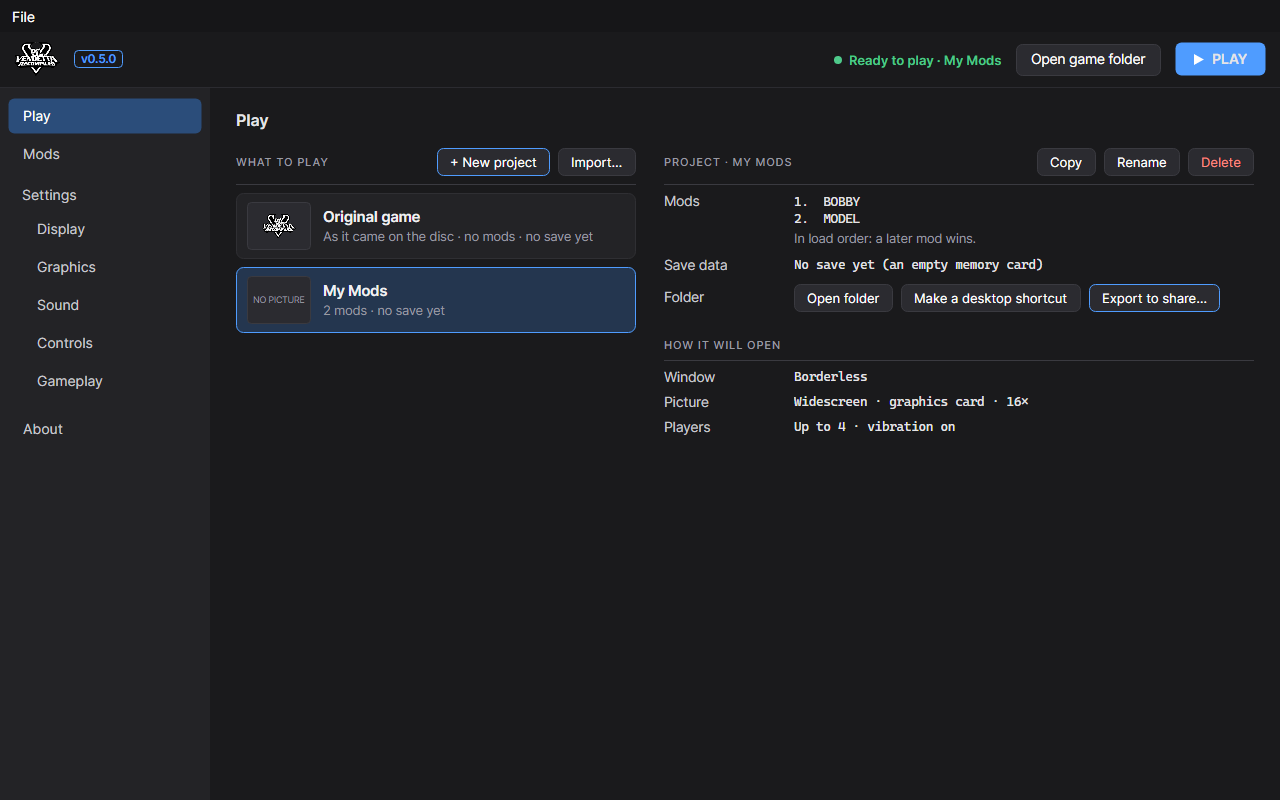
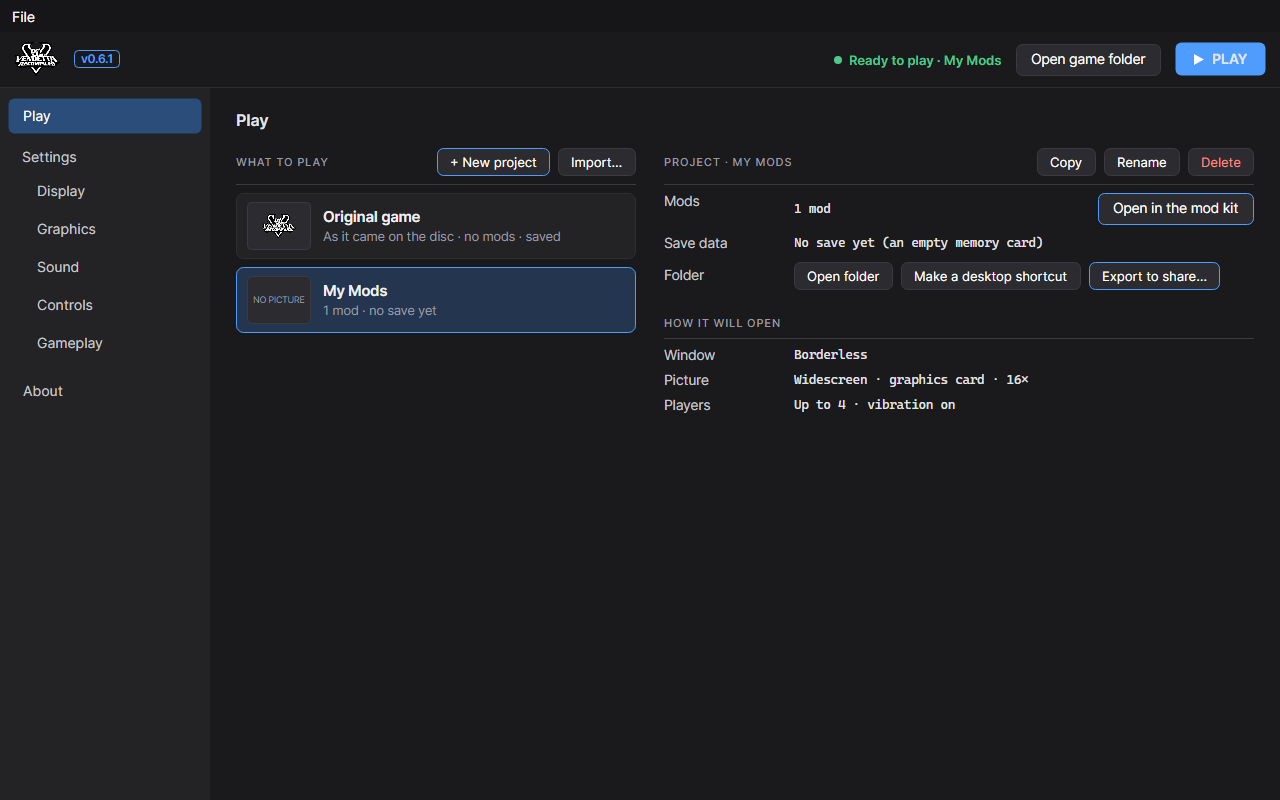
README: what's new in the game, the mod kit's projects and themes, new pictures
- New in the game: S-WORD and DABO, the six-sided ring, the cage match and how to play it, Choose Match's options, the camera row.
- Controls moved up, with the cage's climb. Install: a note on Intel graphics built into the processor and old drivers.
- The settings program without its Mods page; mods are managed in the mod kit (PROJECTS and BUILD, a project's Roster, Stages, Themes and Installed, Install a mod).
- Menus, videos and music themes.
- New pictures of the game, the kit and the settings program; the Mods page's and the old Add to project windows' pictures removed.

diff --git a/README.md b/README.md
@@ -24,13 +24,20 @@ Vendetta (PlayStation 2, USA, **SLUS-20639**) as an `.iso` or `.chd`, and everyt
 - [Features](#features)
 - [Screenshots](#screenshots)
 - [Install](#install)
+- [Controls](#controls)
+- [New in the game](#new-in-the-game)
+  - [S-WORD and DABO](#s-word-and-dabo)
+  - [The six-sided ring](#the-six-sided-ring)
+  - [Cage match](#cage-match)
+  - [Match options](#match-options)
 - [Def Jam Vendetta Recompiled Settings](#def-jam-vendetta-recompiled-settings)
 - [Mods](#mods)
   - [The mod kit](#the-mod-kit)
+  - [Projects](#projects)
   - [Wrestlers](#wrestlers)
   - [Arenas](#arenas)
+  - [Menus, videos and music](#menus-videos-and-music)
   - [Blender plugin](#blender-plugin)
-- [Controls](#controls)
 - [Good to know](#good-to-know)
 - [Thanks to](#thanks-to)
 - [Licence](#licence)
@@ -43,6 +50,15 @@ Vendetta (PlayStation 2, USA, **SLUS-20639**) as an `.iso` or `.chd`, and everyt
 - Sharp 2D: the HUD, text and menus as sharp as the 3D
 - High Poly in every match (the PS2 used lower detail models with 3 or 4 fighters)
 - Vulkan on your graphics card, in a window or borderless
+
+**New in the game**
+- The Japanese version's content, in new slots: its two wrestlers, S-WORD and DABO, on the end of Choose Fighter and
+  unlocked, with their own moves, intros, taunts, victories and voices, and the Japanese version's two songs
+- A six-sided ring: a new arena, THE FACE CLUB SIX SIDES, on Choose Stage and unlocked
+- Cage match, in every arena, for every battle type and on both ring shapes: climb out to win, shake a climber off,
+  throw your opponent into the cage
+- Match options in Battle: pin, submission, TKO and rope breaks each switched on or off, and Tornado Tag
+- The camera style changed in the game, from the pause menu or Options
 
 **Playing**
 - Up to 4 players on controllers, plus the keyboard as any player
@@ -59,9 +75,10 @@ Vendetta (PlayStation 2, USA, **SLUS-20639**) as an `.iso` or `.chd`, and everyt
 - New wrestlers and arenas, each with its own place on Choose Fighter and Choose Stage, or in place of the game's own
 - Wrestlers with their own models, skins, attires, movesets, animations and voice lines
 - Your own animations: moves, intros, victories and taunts, posed frame by frame, with their own sounds and cameras
-- Arenas with their own models, textures, lights, crowd sounds and fly-in camera
+- Arenas with their own models, textures, lights, crowd sounds and fly-in camera, with four or six sides
+- Themes: the menus' words, pictures, fonts and colours, the game's movies and the game's songs replaced by your own
 - Projects: each one has its own mods and its own saves, so the original game and your saves are never touched
-- The mod kit comes with the game, with a Blender plugin for models
+- Everything about mods is done in the mod kit, which comes with the game, with a Blender plugin for models
 - Share a project and its mods as one zip
 
 ## Screenshots
@@ -128,6 +145,95 @@ downloads the new version, swaps in only what changed and rebuilds the game in a
 kept. Starting the game itself checks too: when a new version is out, a popup asks **Update** or **Play**, once per new
 version. Turn both checks off under About › Check for updates automatically.
 
+**Intel graphics built into the processor** (most laptops without their own graphics card) need an up to date Intel
+driver. An old one can leave the wrestlers out of the picture or fill it with stripes. The game checks the driver each
+time it starts and tells you when it is one known to draw wrong. Windows Update often says an old driver is the newest:
+get the driver from Intel's own site for your processor. If no newer driver exists for your PC, set **Drawn by** to
+**CPU** on the Graphics page: slower, at the PS2's own resolution, but drawn right.
+
+## Controls
+
+| PS2 | In a match | Controller (Xbox layout) | Keyboard |
+| --- | --- | --- | --- |
+| D-pad / left stick | move | D-pad / left stick | Arrow keys / W A S D |
+| ✕ Cross | grapple | A | X / Space |
+| ○ Circle | run, climb | B | C / Esc |
+| □ Square | strike | X | Z / Numpad 0 |
+| △ Triangle | climb the cage | Y | V / Numpad 1 |
+| L1 / R1 | dodge / block | LB / RB | Q / E |
+| L2 / R2 | | LT / RT | Left Shift / Right Shift |
+| Right stick | taunt, Blazin' | right stick | I J K L |
+| Start / Select | pause | Menu / View | Enter / Tab |
+
+Xbox-style controllers work out of the box, with vibration, and are given to players in the order Windows lists them.
+PlayStation controllers work through Steam or DS4Windows. The keyboard plays as nobody until you pick a player on the
+Controls page.
+
+## New in the game
+
+All of this comes with the game as standard, in the original game and in every project. Nothing needs a mod.
+
+### S-WORD and DABO
+
+The Japanese version of Def Jam Vendetta has two wrestlers the USA version doesn't: **S-WORD** and **DABO**. Both are
+here as they are on the Japanese disc, in two new slots on the end of Choose Fighter, unlocked from the start. Each has
+its own model, select screen pictures, voice lines, intro, taunts and victory, and its own moves, such as S-WORD's
+Kross' Ova Zan and DABO's Hitman's License. The Japanese version's two songs come too: "Kross Ova (ZAN)" and "It's My
+Turn (Fight!!!)". In a project they can be replaced by mods like any of the game's wrestlers.
+
+<table>
+<tr>
+<td width="50%"><img src="images/game-select-sword.jpg" alt="S-WORD and DABO on the end of Choose Fighter"><br><sub>The last column of Choose Fighter: S-WORD above DABO.</sub></td>
+<td width="50%"><img src="images/game-sword-dabo.jpg" alt="S-WORD versus DABO"><br><sub>S-WORD versus DABO.</sub></td>
+</tr>
+</table>
+
+### The six-sided ring
+
+**THE FACE CLUB SIX SIDES** is a new arena on Choose Stage, after the game's 12 and unlocked from the start: The Face
+Club with a six-sided ring, its ropes and corners following the six sides. Mod arenas can have six sides too.
+
+<img src="images/game-sixsides.jpg" alt="S-WORD and DABO in the six-sided ring, with the WWF No Mercy camera" width="50%"><br><sub>S-WORD and DABO in the six-sided ring, seen with the WWF No Mercy camera.</sub>
+
+### Cage match
+
+In Battle, after picking a battle type on Choose Match, set **MATCH TYPE** to **CAGE MATCH**. A cage stands round the
+ring in every arena, on the square ring and the six-sided one, for every battle type.
+
+- **Climb:** push toward the ropes and press △. How fast you climb follows your momentum.
+- **Escape:** at the top, tap to fill the bars and go over the top. Out of the cage wins.
+- **Stop a climber:** press ✕ toward the cage below them to shake it. Enough shaking leaves them hanging, then
+  drops them back into the ring.
+- **Throw into the cage:** grab with ✕, then △ with a direction. Close to the cage it's a whip into it; farther
+  away, a run and ram. Both can be reversed.
+- **Teams:** in a tag or handicap match every member of a team has to get out. With everyone for themselves, the first
+  one out wins.
+
+The ways to win are yours to pick: **ESCAPE**, **PIN**, **SUBMISSION** and **TKO**, with **ROPE BREAKS** on or off.
+The computer climbs, shakes and throws too.
+
+<table>
+<tr>
+<td width="50%"><img src="images/game-cagematch.jpg" alt="Choose Match: CAGE MATCH and its ways to win"><br><sub>Choose Match: CAGE MATCH and its ways to win.</sub></td>
+<td width="50%"><img src="images/game-cage.jpg" alt="Briggs climbing the cage"><br><sub>Briggs climbing the cage.</sub></td>
+</tr>
+<tr>
+<td><img src="images/game-cage-top.jpg" alt="At the top of the cage: tap to get over"><br><sub>At the top: tap to get over.</sub></td>
+<td><img src="images/game-cage-six.jpg" alt="S-WORD climbing the cage on the six-sided ring"><br><sub>The cage on the six-sided ring.</sub></td>
+</tr>
+</table>
+
+### Match options
+
+Choose Match has a second step in Battle for every battle type. In a **NORMAL** match, **PIN**, **SUBMISSION**,
+**TKO** and **ROPE BREAKS** can each be switched on or off (everything on is the game as it always was). Tag Team also
+has **TORNADO TAG**: both partners in the ring at once, no tags. Story and Survival keep their own rules.
+
+<img src="images/game-matchoptions.jpg" alt="Choose Match: a normal match's ways to win" width="50%">
+
+The **camera style** has a row in the pause menu and in Options, so it can be changed during a match. It's the same
+setting as on the settings program's Gameplay page.
+
 ## Def Jam Vendetta Recompiled Settings
 
 <table>
@@ -141,51 +247,73 @@ version. Turn both checks off under About › Check for updates automatically.
 </tr>
 </table>
 
-- **Play:** what to play, the original game or one of your projects; new projects, copy, rename, delete, export one to
-  share and import one.
-- **Mods:** a project's mods in their load order, its mods folder, and the mod kit.
+The settings program sets the game up, picks what to play and holds the settings. Mods are not set up here any more:
+a project's mods are managed in the mod kit, opened from the Play page.
+
+- **Play:** what to play, the original game or one of your projects; new projects, copy, rename, delete, a desktop
+  shortcut for a project, export one to share and import one. A project shows how many mods it has and whether
+  anything needs fixing, with **Open in the mod kit**.
 - **Display:** window or borderless, which screen, VSync, and
   widescreen, 4:3 or stretched.
 - **Graphics:** graphics card or CPU, scale 1× to 16×, Sharp 2D, and FSR, smooth or blocky scaling with sharpening.
 - **Sound:** volume and the arena reverb.
 - **Controls:** up to 4 players, each player's controller and vibration, which player the keyboard plays as, and what
   every button does.
-- **Gameplay:** the camera style in matches, the match speed (Def Jam Vendetta, WWF No Mercy or your own), and Unlock
-  everything.
+- **Gameplay:** the camera style in matches (also in the game's pause menu and Options), the match speed (Def Jam
+  Vendetta, WWF No Mercy or your own), and Unlock everything.
 - **About:** the version, your game folder and save data in one click, and what it's made with.
 
 ## Mods
 
 Mods are played in **projects**. A project is a set of mods with its own saves: the original game never loads mods,
-and its saves stay as they are.
+and its saves stay as they are. Everything about mods is done in the **mod kit**, which comes with the game in the
+`Mod kit` folder: making them, installing ones someone shared, and deciding what goes where in a project. The settings
+program only picks the project and plays it.
 
-<table>
-<tr>
-<td width="50%"><img src="images/settings-play.png" alt="The Play page with a project"><br><sub>The Play page: the original game or one of your projects, each with its own saves.</sub></td>
-<td width="50%"><img src="images/settings-mods.png" alt="The Mods page"><br><sub>The Mods page: a project's mods in load order, each switched on or off.</sub></td>
-</tr>
-</table>
+<img src="images/settings-play.png" alt="The Play page with a project" width="50%"><br><sub>The Play page: the original game or one of your projects, each with its own saves.</sub>
 
-1. On the **Play** page, press **+ New project** and give it a name.
-2. On the **Mods** page, press **Open the mod kit**. It's in the `Mod kit` folder beside Def Jam Vendetta Recompiled
-   Settings.
-3. In the mod kit, make a wrestler or an arena (or import one someone shared), then press **Add to project…**: it
-   either replaces one of the game's own or gets a new place of its own.
+1. On the settings program's **Play** page, press **+ New project** and give it a name.
+2. Press **Open in the mod kit**. The kit opens on that project.
+3. In the kit, press **Install a mod…** for a zip someone shared, or make your own wrestler, arena or theme, and
+   choose where each goes.
 4. Back on the **Play** page, pick the project and press **PLAY**.
 
-When two mods change the same thing, the one lower down the Mods page wins. If a project's mods have a problem, the
-game tells you before it starts, and the Mods page says what's wrong. To share a project with its mods, use
-**Export to share…** on the Play page; the other player brings it in with **Import…**.
+If a project has a problem, the Play page says so and **Fix in the mod kit** takes you to it. To share a project with
+its mods, use **Export to share…** on the Play page; the other player brings it in with **Import…**.
 
 ### The mod kit
 
-The mod kit makes the mods. Its first start asks for the name you make mods under, and it links itself to the game it
-came with.
+The mod kit has two sides. **PROJECTS** manages a project: what is on Choose Fighter, on Choose Stage, and which
+themes it uses. **BUILD** makes the things that go into projects: wrestlers, arenas and themes. Its first start asks
+for the name you make mods under, and it links itself to the game it came with.
 
 <table>
 <tr>
 <td width="50%"><img src="images/modkit-name.png" alt="The mod kit's first start: your name"><br><sub>Your name goes into every mod you make, so two people's mods never clash.</sub></td>
 <td width="50%"><img src="images/modkit-linked.png" alt="Linked games"><br><sub>Linked games: the game the kit reads from and adds mods to.</sub></td>
+</tr>
+</table>
+
+### Projects
+
+On the PROJECTS side, pick a project (or make one with **+ New project**):
+
+- **Roster:** Choose Fighter, slot by slot. A slot holds up to 3 attires, and each can come from anywhere: the game's
+  own, a wrestler you made, one you installed, even from different mods. Change or remove any attire, put a whole
+  wrestler in a slot, or add a **new slot** after the game's own. S-WORD and DABO are there as the game's own.
+- **Stages:** Choose Stage, place by place. A place is the game's arena or one of yours, with **new places** after the
+  game's own.
+- **Themes:** one menu theme, one video theme and one music theme, or back to the game's.
+- **Installed:** everything in the project, each switched on or off or removed, with any problem and its fix.
+
+**Install a mod…** takes a zip someone shared and shows what is in it and where each wrestler or arena will go,
+starting on what its maker chose. A project keeps its own copy of everything in it and never changes by itself: when
+you change something on the BUILD side, or install a newer zip, the project shows **Update**.
+
+<table>
+<tr>
+<td width="50%"><img src="images/modkit-projects.png" alt="A project's Roster"><br><sub>Roster: a custom wrestler in a new slot after the game's 46.</sub></td>
+<td width="50%"><img src="images/modkit-stages.png" alt="A project's Stages"><br><sub>Stages: Choose Stage place by place, THE FACE CLUB SIX SIDES among the game's.</sub></td>
 </tr>
 </table>
 
@@ -240,21 +368,13 @@ victories), and everything about it can then be changed:
 </tr>
 </table>
 
-#### Adding to a project
-
-<table>
-<tr>
-<td width="50%"><img src="images/modkit-addreplace.png" alt="Add to project: replacing a game wrestler"><br><sub>Replacing a wrestler: its attires take that wrestler's one by one, and the rest stay the game's own.</sub></td>
-<td width="50%"><img src="images/modkit-addnew.png" alt="Add to project: a new slot"><br><sub>A new slot at the end of Choose Fighter: no game wrestler changes.</sub></td>
-</tr>
-</table>
-
 ### Arenas
 
 An arena is its model with its lights, fly-in, sounds and Choose Stage pictures. It gets a new place on Choose Stage,
-or takes a game arena's place. Start from any of the game's 12 arenas, or from your own model made in Blender, and
-change what you want:
+or takes a game arena's place. Start from any of the game's arenas, the six-sided one too, or from your own model made
+in Blender, and change what you want:
 
+- **Ring:** four sides or six, following the model.
 - **Lights:** every light the game uses, for the fight, the intros and close-ups and each part of the crowd: its kind,
   where it sits, how far it reaches, and its colour over time, picked on a colour wheel.
 - **Fly-in:** the camera's path into the arena before a match, key by key on a timeline, with its cuts.
@@ -288,12 +408,19 @@ change what you want:
 </tr>
 </table>
 
-#### Adding to a project
+### Menus, videos and music
+
+Themes change how the game looks and sounds outside the fight. A project uses one of each kind.
+
+- **Menus:** the menus' words, pictures, fonts and colours, page by page, seen in the kit as the game shows them.
+- **Videos:** the game's movies replaced by your own video files, by name.
+- **Music:** the game's songs replaced by your own audio files, in the menus and in matches, with the part of the
+  file to play and the artist, song and album the game shows.
 
 <table>
 <tr>
-<td width="50%"><img src="images/modkit-arenareplace.png" alt="Add to project: replacing a game arena"><br><sub>Replacing an arena: it takes that arena's place in Battle, Survival and Story.</sub></td>
-<td width="50%"><img src="images/modkit-arenanew.png" alt="Add to project: a new arena on Choose Stage"><br><sub>New on Choose Stage, after the game's 12, in Battle. The kit's checks say what's still missing.</sub></td>
+<td width="50%"><img src="images/modkit-menus.png" alt="A menu theme's Main Menu page"><br><sub>A menu theme: each page as the game shows it, with its pictures and words to change.</sub></td>
+<td width="50%"><img src="images/modkit-music.png" alt="A music theme"><br><sub>A music theme: every song the game has, each replaced by a file of yours or left the game's.</sub></td>
 </tr>
 </table>
 
@@ -304,33 +431,17 @@ plugin, which brings the game's models into Blender and exports yours for the ki
 
 <img src="images/modkit-blender.png" alt="The Blender plugin page" width="50%">
 
-## Controls
-
-| PS2 | In a match | Controller (Xbox layout) | Keyboard |
-| --- | --- | --- | --- |
-| D-pad / left stick | move | D-pad / left stick | Arrow keys / W A S D |
-| ✕ Cross | grapple | A | X / Space |
-| ○ Circle | run, climb | B | C / Esc |
-| □ Square | strike | X | Z / Numpad 0 |
-| △ Triangle | | Y | V / Numpad 1 |
-| L1 / R1 | dodge / block | LB / RB | Q / E |
-| L2 / R2 | | LT / RT | Left Shift / Right Shift |
-| Right stick | taunt, Blazin' | right stick | I J K L |
-| Start / Select | pause | Menu / View | Enter / Tab |
-
-Xbox-style controllers work out of the box, with vibration, and are given to players in the order Windows lists them.
-PlayStation controllers work through Steam or DS4Windows. The keyboard plays as nobody until you pick a player on the
-Controls page.
-
 ## Good to know
 
 - **Your saves** are memory card files in `files\game\mc0` (About › Open save data). Copy that folder to back them up.
   Each project keeps its own in its folder under `files\projects`.
 - **Running slowly?** 16× (the default) needs a fairly strong graphics card: try 8× on the Graphics page.
+- **Wrestlers missing or a striped picture?** That is an old graphics driver, seen on Intel graphics built into the
+  processor. Update the driver (see [Install](#install)), or set Drawn by to CPU on the Graphics page.
 - **Preparing graphics:** the setup and each update prepare the graphics card's shaders (about 2 minutes), so the game
   starts quickly. After a graphics driver update the game prepares them again once, with a "Preparing graphics" popup.
 - **Vibration** can also be turned off in the game's own pause menu.
-- **Camera styles** (on the Gameplay page):
+- **Camera styles** (on the Gameplay page, and in the game's pause menu and Options):
   - **Def Jam Vendetta:** the game's own camera, the default.
   - **WWF No Mercy style:** looking down on the ring from the side, without swinging round the fighters.
   - **Wrestle Kingdom 2 style:** the ring seen from a corner, like a diamond. The D-pad and left stick are turned to
@@ -342,7 +453,9 @@ Controls page.
   speed, and the match clock follows the chosen speed.
 - **Unlock everything** (on the Gameplay page, off by default): every wrestler, attire, arena and gallery picture for
   every player, with or without a save. Your save is never changed, and anything you unlock while playing is still
-  saved, so turning it off puts you back where your save is.
+  saved, so turning it off puts you back where your save is. S-WORD, DABO and THE FACE CLUB SIX SIDES are unlocked
+  either way.
+- **Mods:** the original game never loads mods. Make a project on the Play page, then open it in the mod kit.
 - **Your settings** are in `files\settings.toml`. Def Jam Vendetta Recompiled Settings writes it, and you can edit it by hand.
 
 <details>
